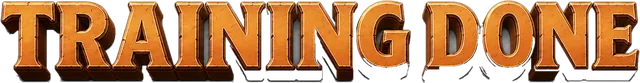
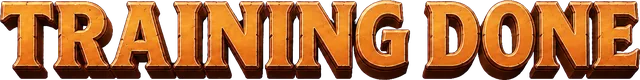
Re-bake Training Done from a magenta-background reference
Rone re-rendered the reference on the recommended plain flat magenta
backdrop instead of the "transparent" DALL-E checker, so this switches the
cut over to --mode flat --bg 246,5,245, which gives a cleaner edge than
vignette+declutter ever could here.

That surfaced two more general cut_plaque.py gaps, both fixed in the tool
rather than patched on this one asset:

- Glossy highlights in the art had picked up an actual pink cast from the
  magenta backdrop during generation -- fully opaque pixels far enough from
  the key by colour distance that keying and unmultiply never touch them,
  so they just sit there tinted. New demagenta() subtracts exactly that
  bleed (magenta's R-and-B-both-above-G signature, which this warm
  bronze/stone palette never produces on its own) as a smooth correction
  with no threshold to tune, applied automatically whenever the key itself
  is magenta-family.

- A couple of stray far-corner pixels happened to key in as opaque and
  dragged the crop's bounding box out with them, padding the plaque with a
  huge dead transparent margin (200px tall instead of 80). The crop box is
  now measured off the alpha mask with any opaque island under 8px dropped
  first -- a real plaque's own small details (rivets, texture flecks) are
  untouched everywhere except this one measurement.

Also updates index.html's aspect-ratio to match the new tight crop (8.0,
was 7.711 from the checker-sourced cut). Verified by compositing the new
[…]

diff --git a/index.html b/index.html
@@ -233,7 +233,7 @@
      to a screen reader and "find on page". */
   #overlay.training-done h1 {
     width: clamp(280px, 45vw, 490px); max-width: 100%;
-    aspect-ratio: 7.711;
+    aspect-ratio: 8.0;
     background: url('assets/ui/training-done-heading.webp') no-repeat center / contain;
     text-indent: -9999px; overflow: hidden; white-space: nowrap;
   }

diff --git a/tools/cut_plaque.py b/tools/cut_plaque.py
@@ -172,6 +172,30 @@ def unmultiply(rgb, key, alpha):
     return out
 
 
+def demagenta(rgb):
+    """Scrub leftover magenta bleed that unmultiply doesn't reach.
+
+    A saturated backdrop can imprint on the art itself during generation --
+    a glossy highlight picking up a pink cast from the magenta lighting it
+    the whole render, not just from being keyed against it. That pixel is
+    fully opaque and far from the key by colour distance, so the key never
+    touches it and unmultiply never runs on it; it just sits there pink.
+
+    Magenta's signature is R and B both above G. Real art in this warm
+    bronze/stone palette runs the other way -- B sits well below G -- so
+    subtracting whichever of (R-G) and (B-G) is smaller, wherever both are
+    positive, only ever touches genuine bleed. It is a smooth subtraction
+    rather than a threshold, so there is no cutoff to tune and no ring left
+    at its edge the way a hard mask would leave one.
+    """
+    r, g, b = rgb[..., 0], rgb[..., 1], rgb[..., 2]
+    excess = np.minimum(np.maximum(r - g, 0), np.maximum(b - g, 0))
+    out = rgb.copy()
+    out[..., 0] -= excess
+    out[..., 2] -= excess
+    return out
+
+
 def main():
     ap = argparse.ArgumentParser()
     ap.add_argument('src')
@@ -219,7 +243,13 @@ def main():
 
     rgb = a.astype(np.float64)
     if args.mode == 'flat':
-        rgb = unmultiply(rgb, [int(v) for v in args.bg.split(',')], alpha)
+        bg_key = [int(v) for v in args.bg.split(',')]
+        rgb = unmultiply(rgb, bg_key, alpha)
+        # Only for a magenta-family key (R and B both above G) -- a grey or
+        # white flat key has no such signature to clean up, and demagenta()
+        # would be a no-op for one anyway.
+        if bg_key[0] > bg_key[1] and bg_key[2] > bg_key[1]:
+            rgb = demagenta(rgb)
     elif args.mode == 'vignette':
         # key_vignette's alpha is a hard 0/1 mask, and the softening below
         # blurs it into a fractional edge -- but the RGB under that edge is
@@ -239,7 +269,26 @@ def main():
         am = am.filter(ImageFilter.GaussianBlur(0.8))
     out.putalpha(am)
 
-    box = am.point(lambda v: 255 if v > 6 else 0).getbbox()
+    # A single stray fleck of colour distant enough from the key to key in --
+    # a compression artefact, a stray non-magenta pixel -- costs nothing on
+    # its own but silently drags the crop box out to wherever it sits, so a
+    # two-pixel speck in a far corner can leave the whole plaque padded with
+    # dead transparent space. Drop any opaque island under this many pixels
+    # before the crop box is measured, not from the alpha itself generally,
+    # since a real plaque can legitimately have small isolated details (a
+    # rivet, a fleck of texture) worth keeping everywhere except here.
+    try:
+        from scipy import ndimage
+        mask = np.asarray(am) > 6
+        labels, n = ndimage.label(mask)
+        sizes = ndimage.sum(mask, labels, range(1, n + 1))
+        small = {i + 1 for i, s in enumerate(sizes) if s < 8}
+        if small:
+            mask = mask & ~np.isin(labels, list(small))
+    except ImportError:
+        mask = np.asarray(am) > 6
+
+    box = Image.fromarray((mask * 255).astype(np.uint8)).getbbox()
     out = out.crop(box)
     out = out.resize((args.width, max(1, round(args.width * out.height / out.width))),
                      Image.LANCZOS)
